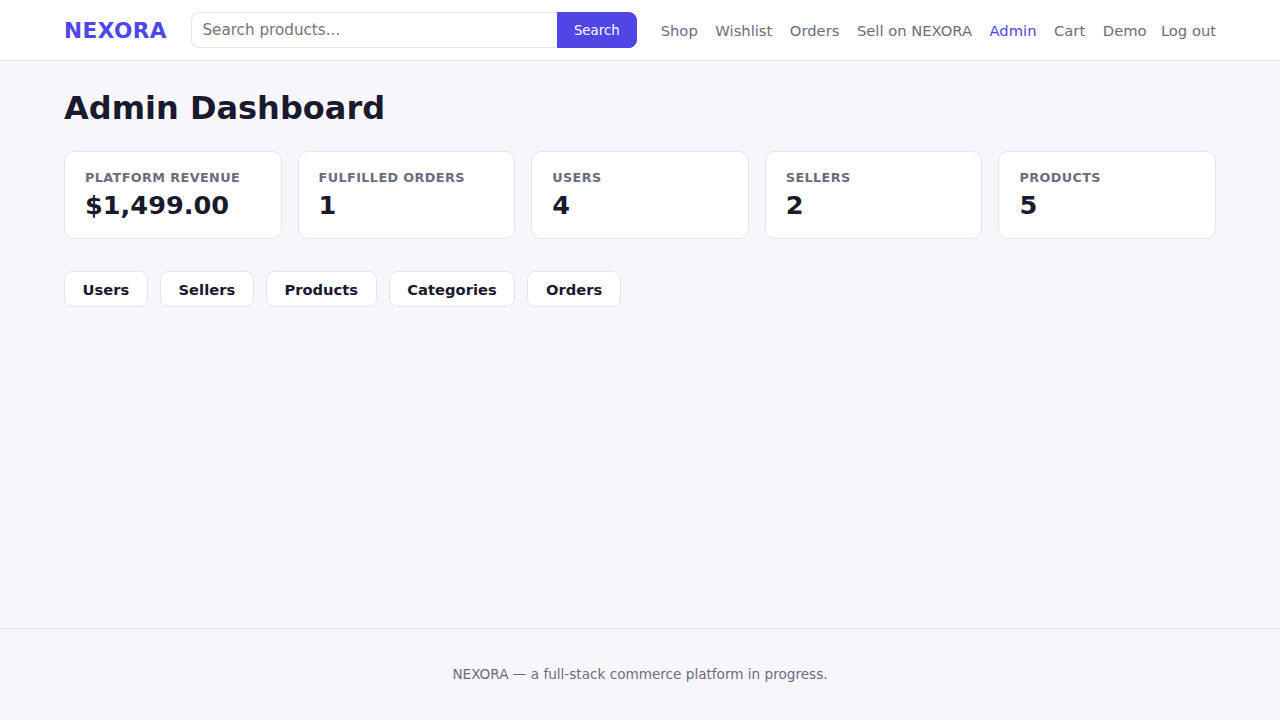
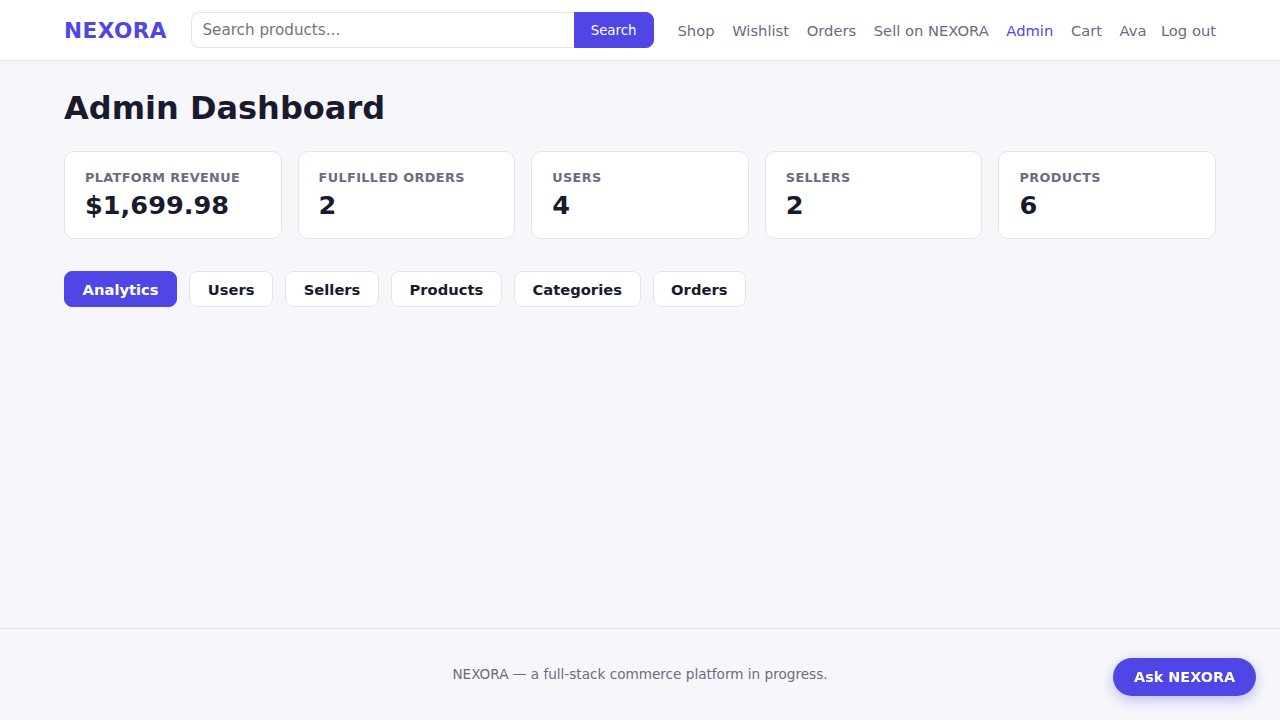
Regenerate authentic screenshots and add one-click Render deploy
The previous docs/screenshots/*.png were never real captures of this
app — every one showed a "Demo" nav link and (on seller-dashboard.png)
a duplicated "Seller" link that don't exist anywhere in the frontend
code or its history. Replaced all seven with genuine Playwright
captures against a locally seeded instance of the actual running app.

Also adds render.yaml so the repo can be deployed with a single
"Deploy to Render" link: a free Postgres database, the FastAPI backend
as a Docker web service, and the frontend as a static site, wired
together automatically (JWT secret generated, CORS origin resolved to
the frontend's assigned URL at container start). Required making
CORS_ORIGINS configurable instead of hardcoded to localhost, since a
deployed frontend and backend live on different origins.

Claude-Session: https://claude.ai/code/session_012LPkWwNyovobqdsuY8qzNe

diff --git a/backend/app/main.py b/backend/app/main.py
@@ -1,6 +1,7 @@
 from fastapi import FastAPI
 from fastapi.middleware.cors import CORSMiddleware
 
+from backend.app.core.config import settings
 from backend.app.core.request_logging import RequestLoggingMiddleware
 from backend.app.core.security_headers import SecurityHeadersMiddleware
 from backend.app.api.v1.addresses import router as addresses_router
@@ -29,10 +30,7 @@ app = FastAPI(
 
 app.add_middleware(
     CORSMiddleware,
-    allow_origins=[
-        "http://localhost:5173",
-        "http://127.0.0.1:5173",
-    ],
+    allow_origins=settings.cors_origin_list,
     allow_credentials=True,
     allow_methods=["*"],
     allow_headers=["*"],

diff --git a/backend/app/core/config.py b/backend/app/core/config.py
@@ -7,12 +7,17 @@ class Settings(BaseSettings):
     jwt_algorithm: str = "HS256"
     reservation_expiry_minutes: int = 15
     anthropic_api_key: str | None = None
+    cors_origins: str = "http://localhost:5173,http://127.0.0.1:5173"
 
     model_config = SettingsConfigDict(
         env_file=".env",
         env_file_encoding="utf-8",
         case_sensitive=False,
     )
+
+    @property
+    def cors_origin_list(self) -> list[str]:
+        return [origin.strip() for origin in self.cors_origins.split(",") if origin.strip()]
 
 
 settings = Settings()

diff --git a/README.md b/README.md
@@ -4,6 +4,8 @@ A full-stack e-commerce platform: FastAPI + PostgreSQL backend, React + TypeScri
 storefront, seller and admin dashboards, an AI shopping assistant, and the
 infrastructure to run it — built end to end as a portfolio project.
 
+[![Deploy to Render](https://render.com/images/deploy-to-render-button.svg)](https://render.com/deploy?repo=https://github.com/adi106/Nexora)
+
 ![Storefront homepage](docs/screenshots/storefront-home.png)
 
 ## What's here
@@ -38,7 +40,7 @@ moderate and watch the numbers.
 | Auth | JWT (PyJWT), Argon2 password hashing (pwdlib) |
 | Frontend | React 19, TypeScript, Vite, React Router |
 | AI | Anthropic Claude API (Python SDK), retrieval over the product catalog |
-| Infra | Docker, docker-compose, GitHub Actions CI |
+| Infra | Docker, docker-compose, GitHub Actions CI, one-click Render deploy (`render.yaml`) |
 | Tests | pytest (218 backend tests), Playwright-verified frontend flows |
 
 ## Architecture
@@ -109,6 +111,31 @@ npm install
 npm run dev
 ```
 
+### Option C: One-click deploy (Render)
+
+Click the **Deploy to Render** badge above (or go to
+[render.com/deploy?repo=…](https://render.com/deploy?repo=https://github.com/adi106/Nexora)).
+Render reads [`render.yaml`](render.yaml) and provisions three resources under
+your own Render account:
+
+- a free PostgreSQL database,
+- the FastAPI backend as a Docker web service (runs migrations on boot),
+- the React frontend as a static site, built with `VITE_API_BASE_URL`
+  pointed at the backend automatically.
+
+`JWT_SECRET_KEY` is generated for you, and `CORS_ORIGINS` is wired to the
+frontend's Render URL automatically — no manual URL copying required. Two
+things you may want to do afterward:
+
+- **Enable the AI assistant**: add `ANTHROPIC_API_KEY` on the `nexora-backend`
+  service in the Render dashboard (Environment tab), then trigger a manual
+  redeploy. It's left blank by default so the blueprint deploys without
+  requiring an API key.
+- **Free-tier behavior to expect**: the free database expires 30 days after
+  creation (upgrade it in the Render dashboard to keep it), and the free
+  backend service spins down after 15 minutes of inactivity — the first
+  request after a period of idleness takes 30-60 seconds to wake it up.
+
 ### Running tests
 
 ```bash
@@ -123,9 +150,12 @@ npm run lint
 
 ## Environment variables
 
-See `.env.example` for the full list. `ANTHROPIC_API_KEY` is the only optional
-one — without it, the AI assistant endpoint returns a clear 503 instead of
-failing silently or faking a response.
+See `.env.example` for the full list. `ANTHROPIC_API_KEY` is the only truly
+optional one — without it, the AI assistant endpoint returns a clear 503
+instead of failing silently or faking a response. `CORS_ORIGINS` defaults to
+the local Vite dev server and only needs to change if you deploy the frontend
+somewhere other than `localhost:5173` (the Render blueprint sets it
+automatically).
 
 ## Project structure
 
